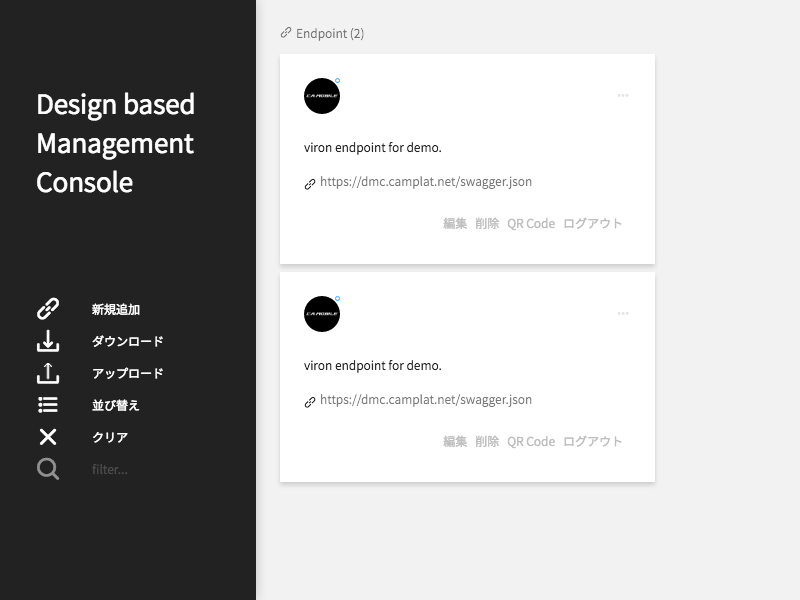
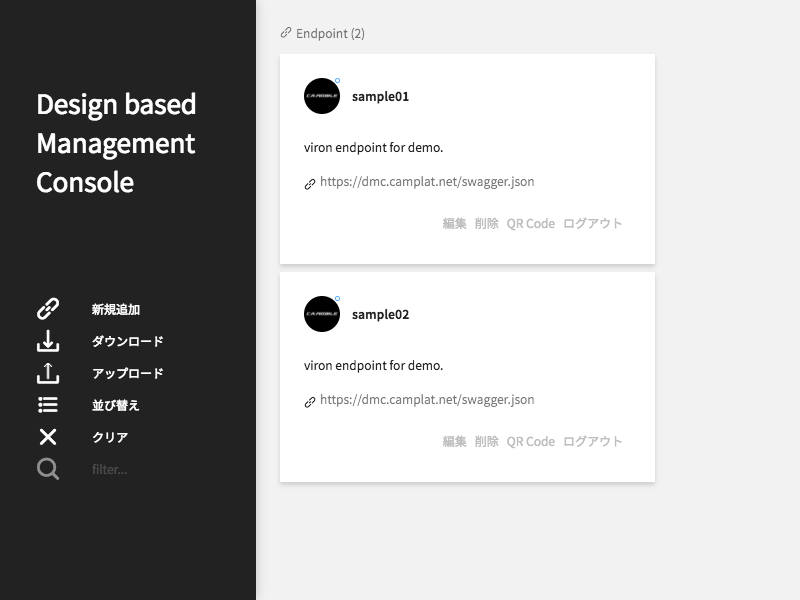
Updated: contents of user guide.

diff --git a/tasks/screenshot.js b/tasks/screenshot.js
@@ -9,16 +9,38 @@ const delay = async (ms) => {
   });
 };
 
+// デバッグ用にinnerHTMLを出力します。
+const debugHTML = async (page, selector = 'body') => {
+  const html = await page.evaluate(_selector => {
+    const elm = document.querySelector(_selector);
+    return elm.innerHTML;
+  }, selector);
+  console.log(html);
+};
+
+// 新規pageを生成します。
+const createPage = async (browser) => {
+  const page = await browser.newPage();
+  await page.goto('https://localhost:8080/', {
+    waitUntil: 'networkidle'
+  });
+  await page.waitFor('.EndpointsPage');
+  await setEndpoints(page);
+  return page;
+};
+
 // capture用のエンドポイントを追加する。
 const setEndpoints = async (page) => {
   return await page.evaluate(() => {
     store.state.endpoints = {
       sampleEndpointKey01: {
+        name: 'sample01',
         url: 'https://dmc.camplat.net/swagger.json',
         memo: 'viron endpoint for demo.',
         thumbnail: 'https://avatars3.githubusercontent.com/u/23251378?v=3&s=200'
       },
       sampleEndpointKey02: {
+        name: 'sample02',
         url: 'https://dmc.camplat.net/swagger.json',
         memo: 'viron endpoint for demo.',
         thumbnail: 'https://avatars3.githubusercontent.com/u/23251378?v=3&s=200'
@@ -29,11 +51,10 @@ const setEndpoints = async (page) => {
 };
 
 // 指定要素からclip領域を算出します。
-const getClipArea = async (page, selector) => {
+const getClipArea = async (page, selector, padding = 8) => {
   return await page.evaluate(_selector => {
     const elm = document.querySelector(_selector);
     const rect = elm.getBoundingClientRect();
-    const padding = 8;
     return {
       x: rect.left - padding,
       y: rect.top - padding,
@@ -43,21 +64,117 @@ const getClipArea = async (page, selector) => {
   }, selector);
 };
 
+// 指定要素をクリックします
+const click = async (page, selector) => {
+  return await page.evaluate(_selector => {
+    const elm = document.querySelector(_selector);
+    elm.click();
+  }, selector);
+};
+
 // ドキュメントに必要なキャプチャ画像をまとめて書き出します。
-const capture = async (page) => {
+const capture = async (browser) => {
   return Promise.all([
+    // Viron全体。
+    // content/overview/introduction
     (async () => {
+      const page = await createPage(browser);
       return await page.screenshot({
         path: 'content/overview/introduction/full.png'
       });
     })(),
+    // エンドポイント新規作成。
+    // content/user_guide/endpoint_add
     (async () => {
-      const clip = await getClipArea(page, '.Application__menuItem');
+      const page = await createPage(browser);
+      const clipForButton = await getClipArea(page, '.Application__menuItem:nth-child(1)');
+      await page.screenshot({
+        path: 'content/user_guide/endpoint_add/add_button.png',
+        clip: clipForButton
+      });
+      const button = await page.$('.Application__menuItem:nth-child(1)');
+      await button.click();
+      await page.waitFor('.Modal__frame');
+      await delay(300);
+      const clipForModal = await getClipArea(page, '.Modal__frame');
       return await page.screenshot({
-        path: 'content/user_guide/endpoint_add/button.png',
+        path: 'content/user_guide/endpoint_add/add_modal.png',
+        clip: clipForModal
+      });
+    })(),
+    // エンドポイント編集。
+    // content/user_guide/endpoint_edit
+    (async () => {
+      const page = await createPage(browser);
+      const clipForButton = await getClipArea(page, '.EndpointsPage__itemTail .EndpointsPage__itemMenu:nth-child(1)');
+      await page.screenshot({
+        path: 'content/user_guide/endpoint_edit/edit_button.png',
+        clip: clipForButton
+      });
+      const button = await page.$('.EndpointsPage__itemTail .EndpointsPage__itemMenu:nth-child(1)');
+      await button.click();
+      await page.waitFor('.Modal__frame');
+      await delay(300);
+      const clipForModal = await getClipArea(page, '.Modal__frame');
+      return await page.screenshot({
+        path: 'content/user_guide/endpoint_edit/edit_modal.png',
+        clip: clipForModal
+      });
+    })(),
+    // エンドポイント削除。
+    // content/user_guide/endpoint_remove
+    (async () => {
+      const page = await createPage(browser);
+      const clipForButton = await getClipArea(page, '.EndpointsPage__itemTail .EndpointsPage__itemMenu:nth-child(2)');
+      return await page.screenshot({
+        path: 'content/user_guide/endpoint_remove/remove_button.png',
+        clip: clipForButton
+      });
+    })(),
+    // エンドポイント並び替え。
+    // content/user_guide/endpoint_order
+    (async () => {
+      const page = await createPage(browser);
+      const clipForButton = await getClipArea(page, '.Application__menuItem:nth-child(4)');
+      await page.screenshot({
+        path: 'content/user_guide/endpoint_order/order_button.png',
+        clip: clipForButton
+      });
+      const button = await page.$('.Application__menuItem:nth-child(4)');
+      await button.click();
+      await page.waitFor('.Modal__frame');
+      await delay(300);
+      const clipForModal = await getClipArea(page, '.Modal__frame');
+      return await page.screenshot({
+        path: 'content/user_guide/endpoint_order/order_modal.png',
+        clip: clipForModal
+      });
+    })(),
+    // エンドポイントfilter。
+    // content/user_guide/endpoint_filter
+    (async () => {
+      const page = await createPage(browser);
+      const clip = await getClipArea(page, '.Application__menuItem:nth-child(6)');
+      return await page.screenshot({
+        path: 'content/user_guide/endpoint_filter/filter_form.png',
         clip
       });
-    })()
+    })(),
+    // エンドポイント共有。
+    // content/user_guide/endpoint_share
+    (async () => {
+      const page = await createPage(browser);
+      const clipForDownloadButton = await getClipArea(page, '.Application__menuItem:nth-child(2)');
+      await page.screenshot({
+        path: 'content/user_guide/endpoint_share/download_button.png',
+        clip: clipForDownloadButton
+      });
+      const clipForUploadButton = await getClipArea(page, '.Application__menuItem:nth-child(3)');
+      return await page.screenshot({
+        path: 'content/user_guide/endpoint_share/upload_button.png',
+        clip: clipForUploadButton
+      });
+    })(),
   ]);
 };
 
@@ -65,13 +182,10 @@ let browser;
 (async () => {
   browser = await puppeteer.launch({
     // 自己署名証明書を使用しているへアクセス可能にする。
-    ignoreHTTPSErrors: true
+    ignoreHTTPSErrors: true,
+    headless: false
   });
-  const page = await browser.newPage();
-  await page.goto('https://localhost:8080/');
-  await page.waitFor('.EndpointsPage');
-  await setEndpoints(page);
-  await capture(page);
+  await capture(browser);
   browser.close();
 })().catch(err => {
   console.error(err);

diff --git a/content/user_guide/endpoint_add.md b/content/user_guide/endpoint_add.md
@@ -3,24 +3,28 @@ title = "エンドポイントを新規追加する"
 weight = 1
 +++
 
-![新規追加](button.png)
+#### Step1 - モーダルを開く
 
-#### Step1 モーダルを開く
+![add_button](add_button.png)
 
 左カラムの`新規追加`ボタンをクリックして`新しい管理画面を作成する`モーダルを開いて下さい。
 
-#### Step2 エンドポイントURLを入力する
+#### Step2 - エンドポイントURLを入力する
+
+![add_modal](add_modal.png)
 
 `エンドポイント`欄にエンドポイントURLを入力して下さい。エンドポイントURLが不明な場合は、サービスを運用している技術者に問い合わせて下さい。登録済のエンドポイントURLは使用できないので注意して下さい。
 
-#### Step3 メモを入力する
+#### Step3 - メモを入力する
 
 エンドポイントに対するメモを任意で入力出来ます。メモ内容はVironの動作に影響しないので安心して自由に入力して下さい。
 
-#### Step4 作成する
+#### Step4 - 作成する
 
 入力内容に問題が無ければ`作成`ボタンをクリックして下さい。エンドポイント一覧にカードが追加されれば成功です。
 
-#### FAQ `作成`ボタンをクリックしたらエラーが発生する
+---
+
+#### FAQ - `作成`ボタンをクリックしたらエラーが発生する
 
 エンドポイントURLが存在しないことが原因かもしれません。サービスを運用している技術者に、エンドポイントURLが有効状態にあるか問い合わせて下さい。別の原因として、[自己署名証明書](https://ja.wikipedia.org/wiki/%E8%87%AA%E5%B7%B1%E7%BD%B2%E5%90%8D%E8%A8%BC%E6%98%8E%E6%9B%B8)が使用されていることも考えられます。自己署名証明書を使用している場合、お使いのwebブラウザでセキュリティ設定を行う必要があります。

diff --git a/content/user_guide/endpoint_share.md b/content/user_guide/endpoint_share.md
@@ -1,0 +1,20 @@
++++
+title = "エンドポイントを共有する"
+weight = 6
++++
+
+#### Step1 - 共有用ファイルをダウンロードする
+
+![download](download_button.png)
+
+左カラムの`ダウンロード`ボタンをクリックすると、現在のエンドポイント群情報の共有用ファイルをダウンロード出来ます。
+
+#### Step2 - 共有用ファイルを配置する
+
+ダウンロードした共有用ファイルを、DropboxやGithub上等、チームメンバーがアクセス可能な場所に配置して下さい。共有用ファイルには、環境別のエンドポイント群を含めると良いでしょう。
+
+#### Step3 - 共有用ファイルをアップロードする
+
+![upload](upload_button.png)
+
+共有用ファイルをVironに反映させるには、左カラムの`アップロード`ボタンをクリックして下さい。ファイル選択ダイアログが表示されるので共有用ファイルを選択して下さい。エンドポイント群が追加されるとアップロード成功となります。

diff --git a/content/user_guide/endpoint_order.md b/content/user_guide/endpoint_order.md
@@ -3,10 +3,14 @@ title = "エンドポイントの並び順を変更する"
 weight = 4
 +++
 
-#### Step1 モーダルを開く
+#### Step1 - モーダルを開く
 
-左カラムの`並び替え`ボタンをクリックして下さい。エンドポイント件数が二件未満の場合、`並び替え`ボタンは非表示になります。
+![order_button](order_button.png)
 
-#### Step2 並び替える
+左カラムの`並び替え`ボタンをクリックして下さい。エンドポイント件数が2件未満の場合、`並び替え`ボタンは表示されません。
+
+#### Step2 - 並び替える
+
+![order_modal](order_modal.png)
 
 並び替えたいエンドポイントをドラッグ&ドロップで移動して下さい。上方に配置されたエンドポイントがより先方に並び替えられます。

diff --git a/content/user_guide/endpoint_edit.md b/content/user_guide/endpoint_edit.md
@@ -3,14 +3,18 @@ title = "エンドポイントを編集する"
 weight = 2
 +++
 
-#### Step1 モーダルを開く
+#### Step1 - モーダルを開く
 
-エンドポイント一覧内の編集したいエンドポイントカードをクリックして下さい。
+![edit_button](edit_button.png)
 
-#### Step2 編集する
+編集したいエンドポイントカード内の`編集`ボタンをクリックして、`エンドポイント編集`モーダルを開いて下さい。
+
+#### Step2 - 編集する
+
+![edit_modal](edit_modal.png)
 
 入力値を自由に変更して下さい。エンドポイントURLは編集不可です。
 
-#### Step3 保存する
+#### Step3 - 保存する
 
 入力内容に問題が無ければ`保存`ボタンをクリックして下さい。

diff --git a/content/user_guide/endpoint_filter.md b/content/user_guide/endpoint_filter.md
@@ -3,4 +3,6 @@ title = "エンドポイントを絞り込む"
 weight = 5
 +++
 
+![filter](filter_form.png)
+
 左カラムの`filter`欄に文字列を入力することで、エンドポイント一覧にリストアップするエンドポイントをフィルタリング出来ます。OR検索を行うには、入力ワードを空白文字で区切って下さい。

diff --git a/content/user_guide/endpoint_remove.md b/content/user_guide/endpoint_remove.md
@@ -3,4 +3,6 @@ title = "エンドポイントを削除する"
 weight = 3
 +++
 
+![remove_button](remove_button.png)
+
 エンドポイント一覧内の削除したいエンドポイントカードにある`削除`ボタンをクリックして下さい。
